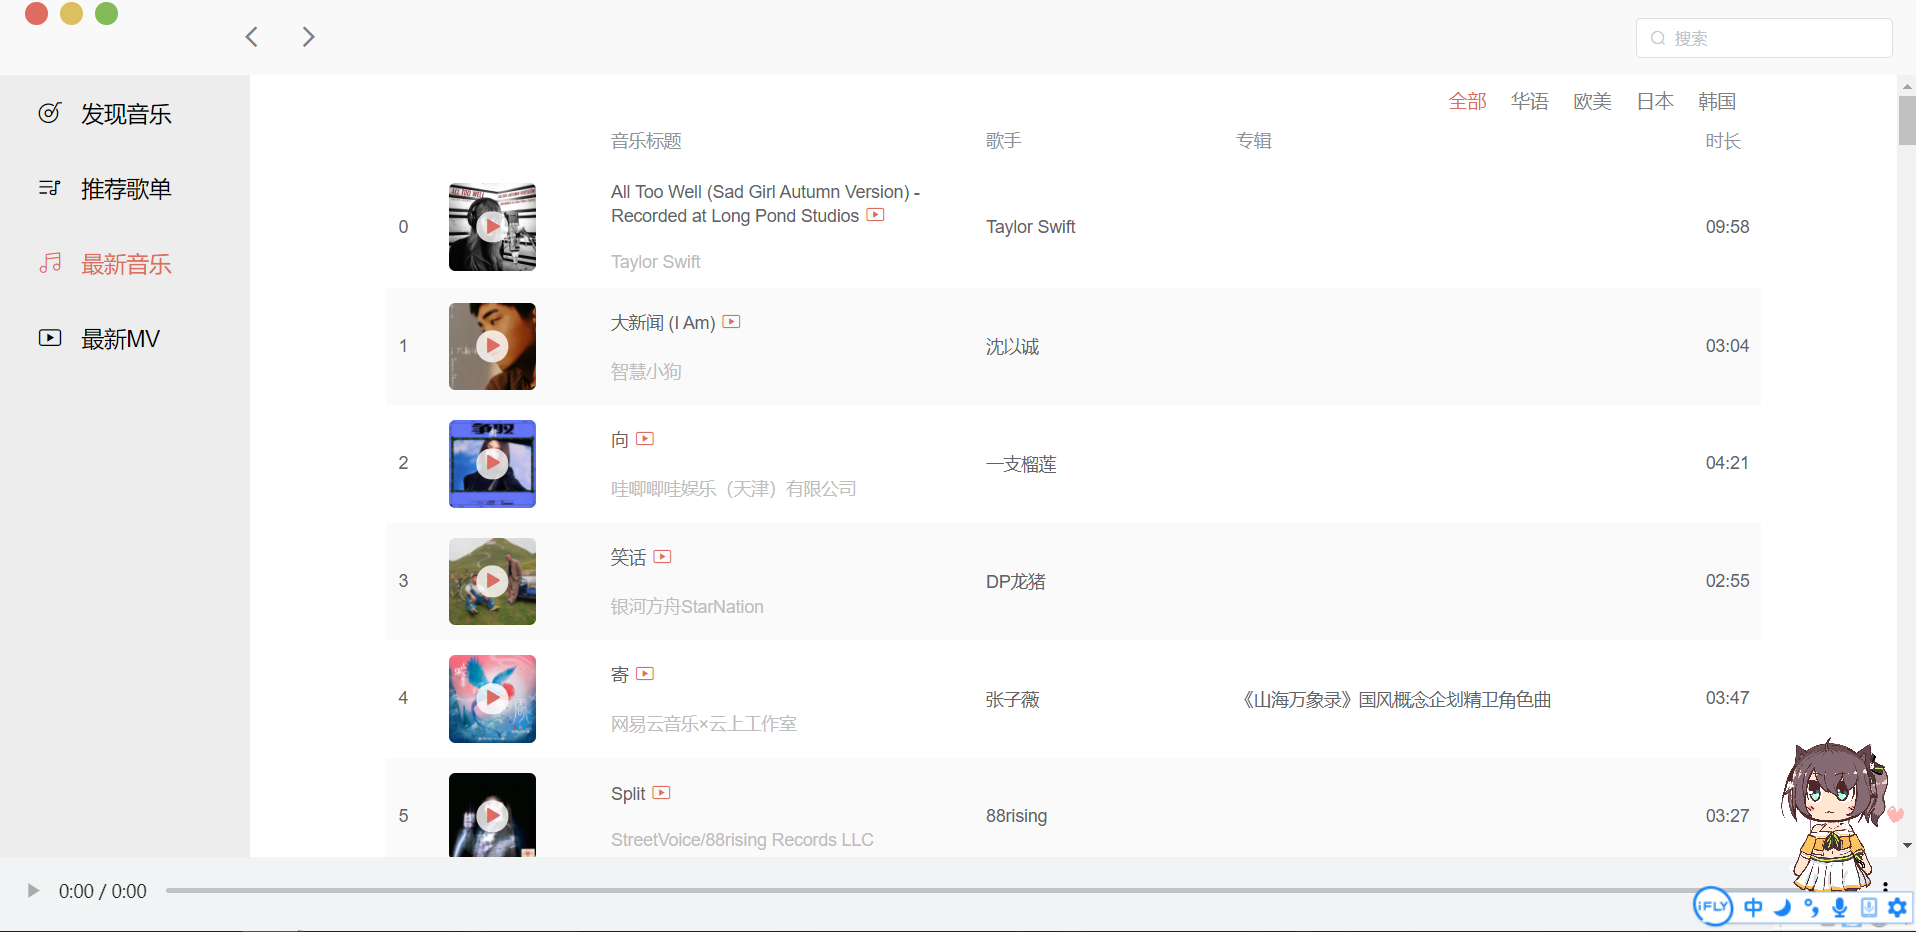
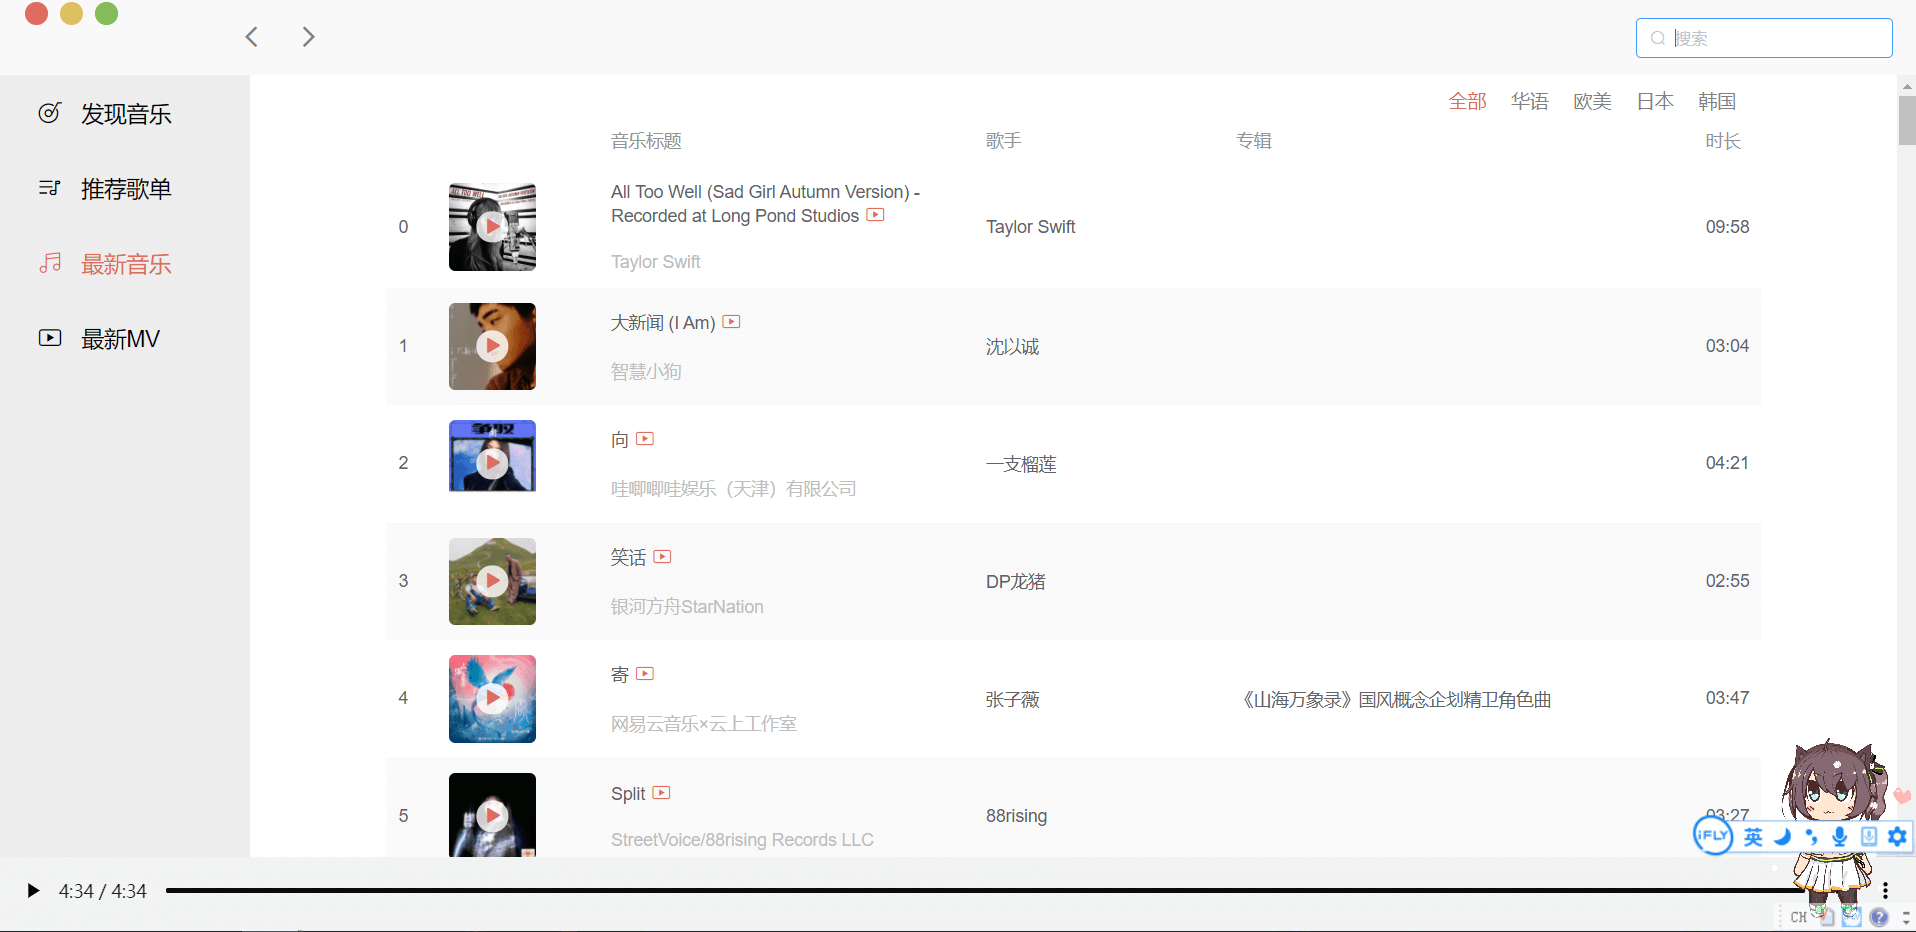
提交

Changed region(s): [[0.0308, 0.809, 1.0, 0.9957], [0.2156, 0.4979, 0.2771, 0.5601]]

diff --git a/player1(1)/src/views/05.result.vue b/player1(1)/src/views/05.result.vue
@@ -22,8 +22,8 @@
             >
               <td>{{ index + 1 }}</td>
               <td>
-                <div class="song-wrap">
-                  <div class="name-wrap">
+                <div class="song-wrap" >
+                  <div class="name-wrap" @click="getUrl(item.id)">
                     <span>{{ item.name }}</span>
                     <span class="iconfont icon-mv" v-if="item.mvid != 0"></span>
                   </div>
@@ -170,6 +170,17 @@ export default {
           console.log("err==>", err);
         });
     },
+      async getUrl(id){
+         let musicUrl =  `https://music.163.com/song/media/outer/url?id=${id}.mp3`
+         const result  = await this.$axios({
+           url:'/song/url',
+      })
+        console.log(result);
+      
+        //  console.log(musicUrl);
+         this.$parent.musicUrl = musicUrl
+        //  this.$parent.list.push(musicUrl)
+    },
   },
   watch: {
     activeIndex() {
@@ -211,7 +222,9 @@ export default {
    
   },
   updated (){
-    this.query = this.$route.query.q
+    this.query = this.$route.query.q;
+       this.serch();
+
   },
   
   //将播放时间进行格式化处理

diff --git a/player1(1)/src/views/03.songs.vue b/player1(1)/src/views/03.songs.vue
@@ -25,14 +25,14 @@
         >
           <td>{{ index }}</td>
           <td>
-            <div class="img-wrap">
+            <div class="img-wrap" @click="getUrl(item.id)">
               <img :src="item.album.picUrl" alt="" />
               <span class="iconfont icon-play"></span>
             </div>
           </td>
           <td>
             <div class="song-wrap">
-              <div class="name-wrap">
+              <div class="name-wrap" >
                 <span>{{ item.album.name }}</span>
                 <span class="iconfont icon-mv"></span>
               </div>
@@ -89,6 +89,17 @@ export default {
         }
         this.songsList[i].duration = `${min}:${sec}`;
       }
+    },
+    async getUrl(id){
+         let musicUrl =  `https://music.163.com/song/media/outer/url?id=${id}.mp3`
+         const result  = await this.$axios({
+           url:'/song/url',
+      })
+        console.log(result);
+      
+        //  console.log(musicUrl);
+         this.$parent.musicUrl = musicUrl
+        //  this.$parent.list.push(musicUrl)
     },
   },
   watch:{

diff --git a/player1(1)/src/views/01.discovery.vue b/player1(1)/src/views/01.discovery.vue
@@ -118,7 +118,7 @@ export default {
       
         //  console.log(musicUrl);
          this.$parent.musicUrl = musicUrl
-         this.$parent.list.push(musicUrl)
+        //  this.$parent.list.push(musicUrl)
     },
     //推荐Mv
     async  tjMv(){
